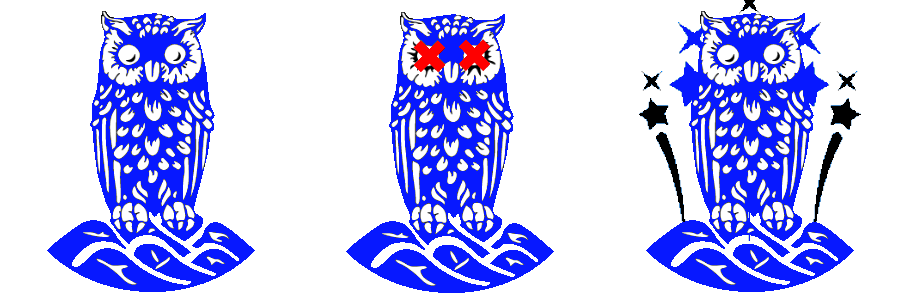
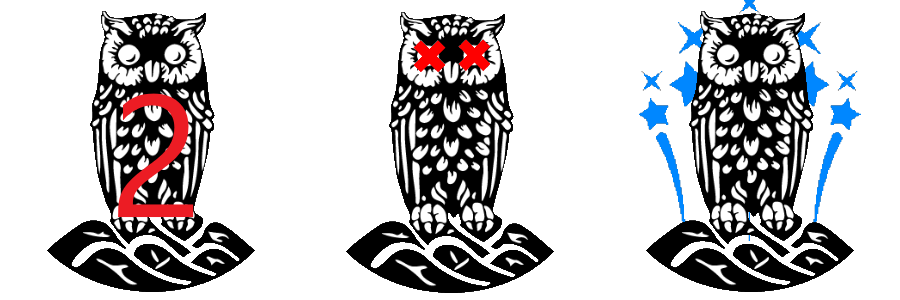
Fiksa sonn at kvar klient har eit unikt skin i spelet, så Robot 1 viser med skin 1 hoss alle klientane.

Changed region(s): [[0.7156, 0.0, 0.9644, 0.99], [0.0311, 0.03, 0.28, 0.99], [0.3733, 0.03, 0.6222, 0.99]]

diff --git a/src/main/java/inf112/skeleton/app/Application.java b/src/main/java/inf112/skeleton/app/Application.java
@@ -50,7 +50,7 @@ public class Application extends InputAdapter implements ApplicationListener {
     private ArrayList<Robot> players = new ArrayList<>();
     private ArrayList<Flag> flags = new ArrayList<>();
 
-    private ArrayList<String> playerSkinPaths = new ArrayList<>(Arrays.asList("assets/player.png", "assets/player2.png"));
+    private ArrayList<String> playerSkinPaths = new ArrayList<>(Arrays.asList("assets/player1.png", "assets/player2.png", "assets/player3.png", "assets/player4.png", "assets/player5.png", "assets/player6.png"));
 
     private Game game;
     public enum State
@@ -200,7 +200,9 @@ public class Application extends InputAdapter implements ApplicationListener {
                     setGameState(State.STOPPED);
                 }
             } else{
-                playerLayer.setCell(playerXPosition(game.getPlayers().get(i)),playerYPosition(game.getPlayers().get(i)),playerCell.get(i));
+                if (game.getPlayers().get(i).getId() != null) {
+                    playerLayer.setCell(playerXPosition(game.getPlayers().get(i)),playerYPosition(game.getPlayers().get(i)),playerCell.get(Integer.parseInt(game.getPlayers().get(i).getId()) - 1));
+                }
             }
         }
         /*        else if(flagLayer.getCell(playerXPosition(players.get(0)),playerYPosition(players.get(0))) != null){*/
